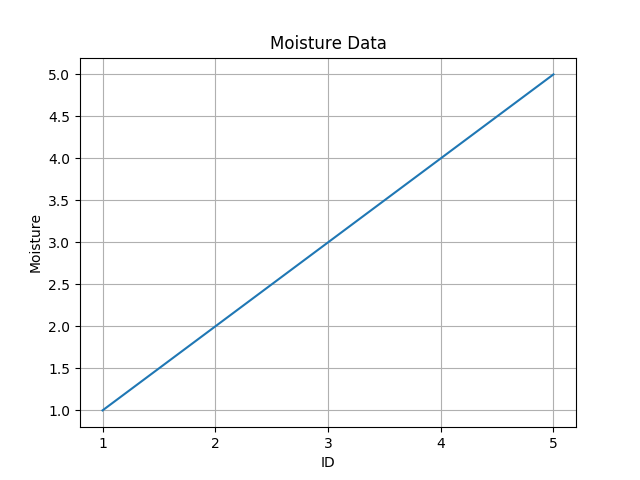
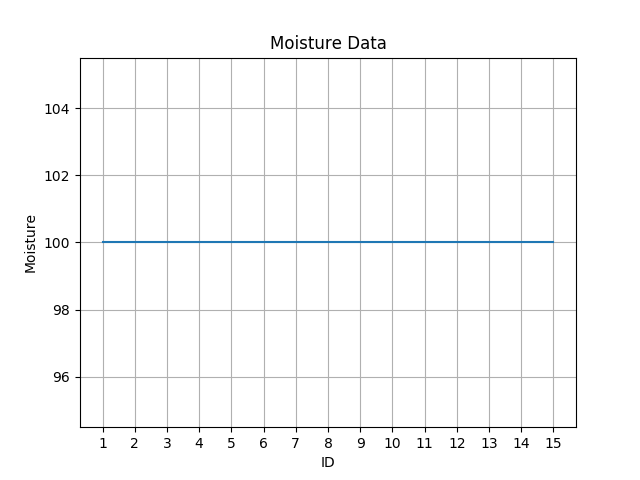
added code to get data to and from database and build plots based on that

diff --git a/Website/templates/th_sensor.html b/Website/templates/th_sensor.html
@@ -1,0 +1,96 @@
+<html>
+	<head>
+		<link rel="stylesheet" type="text/css" href="{{ url_for('static', filename='css/temp-humi.css') }}" type="text/css" media="screen" charset="utf-8" />
+	</head>
+	<body>
+		<h1> Temperature / Humidity Sensor </h1>
+		<div id="data-sect">
+			<div class="sect">
+				<h2> Temperature - Current Data </h2>
+				<button class="get_data" id="t">Get Current Temperature</button>
+				<div class="data" id="data-t"></div>
+				<div id="t-graph-sect">
+					<button class="generate" id="t"> Generate Graph </button>
+					<div class="change_range">
+						<div class="change-pos"> 
+							<h5>Start</h5>
+							<input id="t-start" type="text" name="start">
+						</div>
+						<div class="change-pos"> 
+							<h5>End</h5>
+							<input id="t-end" type="text" name="end">
+						</div>
+					</div>
+					<div class="graph" id="graph-t"><img width="500" height="500"></div>
+				</div>
+			</div>	
+			<div class="sect">
+				<h2> Humidity - Current Data </h2>
+				<button class="get_data" id="h">Get Current Humidity</button>
+				<div class="data" id="data-h"></div>
+				<div id="h-graph-sect">
+					<button class="generate" id="h"> Generate Graph </button>
+					<div class="change_range">
+						<div> 
+							<h5>Start</h5>
+							<input id="h-start" type="text" name="start">
+						</div>
+						<div> 
+							<h5>End</h5>
+							<input id="h-end" type="text" name="end">
+						</div>
+					</div>
+					<div class="graph" id="graph-h"><img src="" width="500" height="500" ></div>	
+				</div>
+			</div>
+		</div>	
+	</body>
+	<script src="https://ajax.googleapis.com/ajax/libs/jquery/1.9.1/jquery.min.js"></script>
+	<script type="text/javascript">
+		$(function() {
+			var type;
+			var url;
+			var num;
+			var ip;
+			var start;
+			var end;
+			
+			$('.generate').bind('click', function() {
+				type = this.id;
+				start = $("#" + type + "-start").val();
+				end = $("#" + type + "-end").val();
+				url = "/make_graph/" + type + "/" + start + "/" + end;
+				$.ajax({
+					url: url,
+					type: "get",
+					success: function(response) {
+						$("#graph-" + type).html(response);
+					},
+					error: function(xhr) {
+						alert(url);
+						alert("error");
+					}
+				});
+				
+			});
+			
+			 
+			$('.get_data').bind('click', function() {
+				type = this.id;
+				ip = '{{ ip }}';
+				num = '{{ num }}';
+				url = "/getJson/" + ip + "/" + type + "/" + num;
+				$.ajax({
+					url: url,
+					type: "get",
+					success: function(response) {
+						$("#data-" + type).html(response);
+					},
+					error: function(xhr) {
+						alert("error");
+					}
+				});
+			});
+		});
+	</script>
+</html>

diff --git a/Website/templates/moisture.html b/Website/templates/moisture.html
@@ -11,15 +11,31 @@
 		</div>	
 		<div id="graph-sect">
 			<button id="generate"> Generate Graph </button>
+			<div id="change_range">
+				<div class="change-pos"> 
+					<h5>Start</h5>
+					<input id="start" type="text" name="start-v">
+				</div>
+				<div class="change-pos"> 
+					<h5>End</h5>
+					<input id="end" type="text" name="end-v">
+				</div>
+			</div>
 			<div id="graph"><img width="500" height="500"></div>
 		</div>
 	</body>
-	<script src="//ajax.googleapis.com/ajax/libs/jquery/1.9.1/jquery.min.js"></script>
-	<script type=text/javascript>
+	<script src="https://ajax.googleapis.com/ajax/libs/jquery/1.9.1/jquery.min.js"></script>
+	<script type="text/javascript">
 	        $(function() {
+		
+		  var ip = '{{ ip }}';
+		  var num = '{{ num }}';
+		  var url; 
 	          $('#generate').bind('click', function() {
+		     start = $('#start').val();
+		     end = $('#end').val();
 	             $.ajax({
-			      url: "/make_graph/m/1/5",
+			      url: "/make_graph/m/" + start + "/" + end,
 			      type: "get",
 			      success: function(response) {
 			        $("#graph").html(response);
@@ -29,10 +45,9 @@
 			      }
     			});
 	          });
+		
 		    $('#get_data').bind('click', function() {
-		     var ip = '{{ ip }}';
-		     var num = '{{ num }}';
-		     var url = "/getJson/" + ip + "/m/" + num;
+		     url = "/getJson/" + ip + "/m/" + num;
 	             $.ajax({
 			      url: url,
 			      type: "get",
@@ -44,6 +59,7 @@
 			      }
     			});
 	          });
+			
         });
 	</script>
 </html>

diff --git a/Website/templates/demo_start.html b/Website/templates/demo_start.html
@@ -6,15 +6,15 @@
 		<h1> Pick Sensor </h1>
 		<div id="sensors">
 			<div class="section">
-       				<a href="{{ url_for('th_sensor', address='10.0.192.50') }}"><button>Temperature / Humidity</button></a>
 				<a href="{{ url_for('moisture', num=1, address='10.0.192.163') }}"><button>Moisture</button></a>
+				<a href="{{ url_for('moisture', num=2, address='10.0.192.44') }}"><button>Moisture</button></a>
 			</div>
 			<div class="section">
-        			<a href="{{ url_for('moisture', num=2, address='10.0.192.44') }}"><button>Moisture</button></a>
         			<a href="{{ url_for('moisture', num=3, address='10.0.192.159') }}"><button>Moisture</button></a>
+				<a href="{{ url_for('moisture', num=4, address='10.0.192.54') }}"><button>Moisture</button></a>
 			<div class="section">
-        			<a href="{{ url_for('moisture', num=4, address='10.0.192.54') }}"><button>Moisture</button></a>
         			<a href="{{ url_for('moisture', num=5, address='10.0.192.49') }}"><button>Moisture</button></a>
+				<a href="{{ url_for('th_sensor', num=6, address='10.0.192.50') }}"><button>Temperature / Humidity</button></a>
       			</div>
 		</div>		
 	</body>

diff --git a/Website/static/js/temp-humi.js b/Website/static/js/temp-humi.js
@@ -1,0 +1,39 @@
+$(function() {
+	alert("hi");
+	var type;
+	var url;
+	var ip;
+	$('.generate').bind('click', function() {
+		type = this.id;
+		url = "/make_graph/" + type + "/1/5";
+
+		$.ajax({
+			url: url,
+			type: "get",
+			success: function(response) {
+				$("#graph-" + type).html(response);
+			},
+			error: function(xhr) {
+				alert("error");
+			}
+		});
+	});
+
+	    
+	$('.get_data').bind('click', function() {
+		type = this.id;
+		ip = '{{ ip }}';
+		url = "/getJson/" + ip + "/" + type + "/1;
+		$.ajax({
+			url: url,
+			type: "get",
+			id: this.id,
+			success: function(response) {
+				$("#data-" + type).html(response);
+			},
+			error: function(xhr) {
+				alert("error");
+			}
+		});
+	});
+});

diff --git a/Website/static/css/temp-humi.css b/Website/static/css/temp-humi.css
@@ -36,3 +36,7 @@ button {
 h1 {
 	margin-top: 25px;
 }
+
+.change-pos {
+	display: inline;
+}

diff --git a/Website/app.py b/Website/app.py
@@ -6,6 +6,7 @@ import sqlite3
 import matplotlib.pyplot as plt
 import numpy as np
 import pymysql
+import datetime
 
 app = Flask(__name__)
 
@@ -23,29 +24,33 @@ def dated_url_for(endpoint, **values):
     return url_for(endpoint, **values)
 
 @app.route('/getJson/<ip>/<kind>/<num>')
-def getJson(ip, kind):
-
+def getJson(ip, kind, num):
     url = "http://" + ip
     res = urllib.request.urlopen(url)
     data_dict = json.loads(res.read().decode('utf-8'))
-
+    date = datetime.datetime.now().strftime("%I:%M:%s%p on %B %d, %Y")
     #gets data
     if kind == 't':
         data = data_dict["temperature"][0]
-        
+        data_f = 9.0/5.0 * data + 32
+        sql = "INSERT INTO Temperature (ID, Fahrenheit, Celsius, DATE) VALUES (?, ?, ?, ?)"
+        values = (num, data_f, data, date)
     elif kind == 'h':
         data = data_dict["humidity"][0]
+        sql = "INSERT INTO Humidity (ID, Humidity, DATE) VALUES (?, ?, ?)"
+        values = (num, data, date)
     else:
         data = data_dict["moisture"][0]
+        sql = "INSERT INTO Moisture (ID, Moisture, Date) VALUES (?, ?, ?)"
+        values = (num, data, date)
 
-    db = sqlite3.connect("/home/pi/project_green/Database/database.db")
+        
+    db = sqlite3.connect("/home/pi/project_green/Database/GreenhouseSensors")
     c = db.cursor()
-    url = "http://" + address
-    data_dict = getJson(url)
-    moisture = data_dict["moisture"]
-    moisture = 5
-    c.execute("INSERT INTO moisture" + num + " (moisture) VALUES(?)", (moisture,))
-    
+    c.execute(sql, values)
+    db.commit()
+    c.close()
+    db.close()
     return str(data)
 
 @app.route('/')
@@ -60,12 +65,12 @@ def demo():
 def moisture(num, address):
     return render_template('moisture.html', ip = address, num = num)
     
-@app.route('/demo/temp-humi/<address>')
-def th_sensor(address):
+@app.route('/demo/temp-humi/<address>/<num>')
+def th_sensor(address, num):
     '''url = "http://" + address
     data_dict = getJson(url)
     moisture = data_dict["moisture"]'''
-    return render_template('temp-humi.html', ip = address)
+    return render_template('th_sensor.html', ip = address, num = num)
 
 def populate_ids(ids, start, end):
     num = start
@@ -74,28 +79,37 @@ def populate_ids(ids, start, end):
         np.append(ids, num)
         print(num)
         num += 1
-
-def populate_data(ids, data):
-    data = [1, 2, 3, 4, 5]
-        
+   
 @app.route('/make_graph/<which>/<start>/<end>')
 def make_graph(which, start, end):
     #db = MySQLdb.connect(host="localhost", user="john", passwd="megajonhy", db="jonhydb") 
     #cur = db.cursor()
-    
     if which == 't':
         name = "Temperature Data"
         ylabel = "Temperature"
+        sql = "SELECT Celsius FROM Temperature WHERE rowid BETWEEN " + start + " AND " + end
     elif which == 'h':
         name = "Humidity Data"
         ylabel = "Humidity"
+        sql = "SELECT Humidity FROM Humidity WHERE rowid BETWEEN " + start + " AND " + end 
     else:
         name = "Moisture Data"
         ylabel = "Moisture"
-        
+        sql = "SELECT Moisture FROM Moisture WHERE rowid BETWEEN " + start + " AND " + end 
+
+
+    db = sqlite3.connect("/home/pi/project_green/Database/GreenhouseSensors")
+    c = db.cursor()
+    
+    c.execute(sql)
+    rows = c.fetchall()
+    
+    c.close()
+    db.close()
+    
     # Data for plotting
-    ids = np.array([1, 2, 3, 4, 5])
-    data = np.array([1, 2, 3, 4, 5])
+    ids = np.arange(int(start), int(end) + 1)
+    data = np.array(rows)
 
     #populate_ids(ids, int(start), int(end))
     #populate_data(ids, data)
